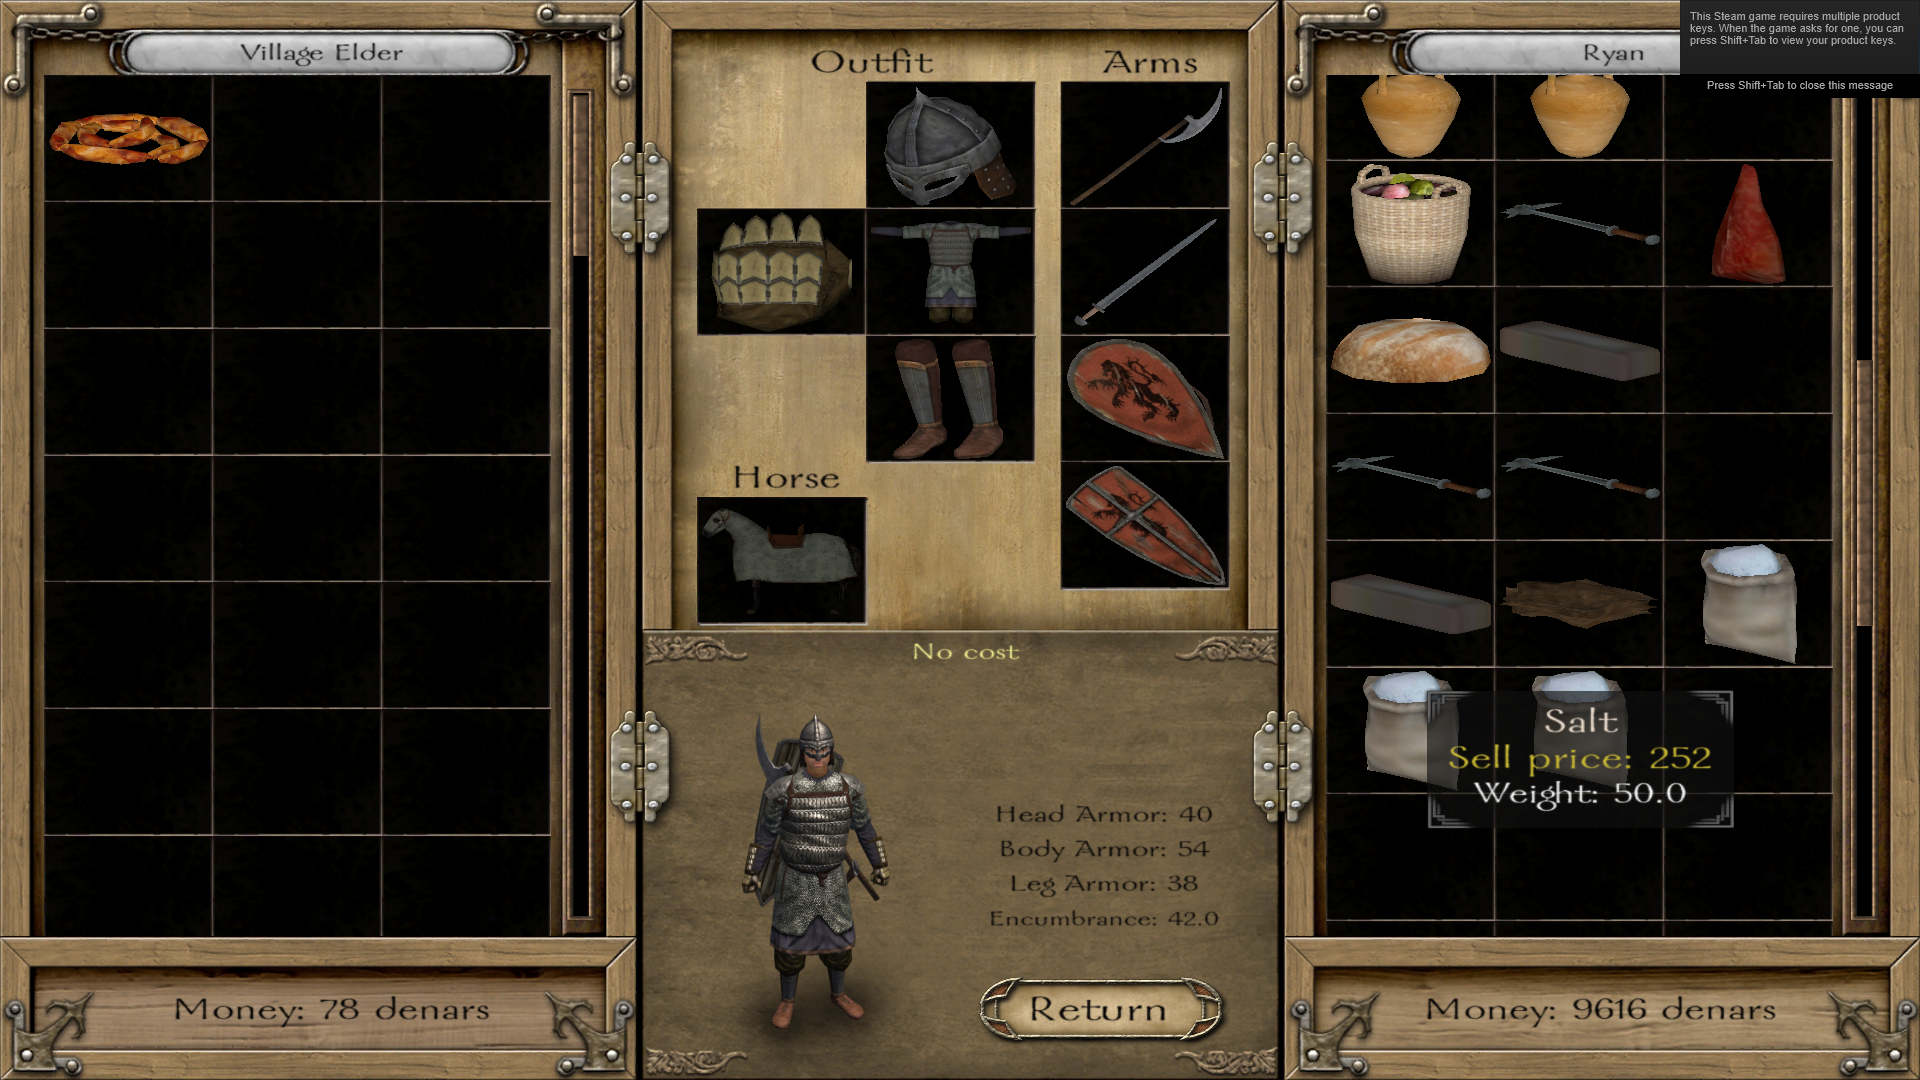
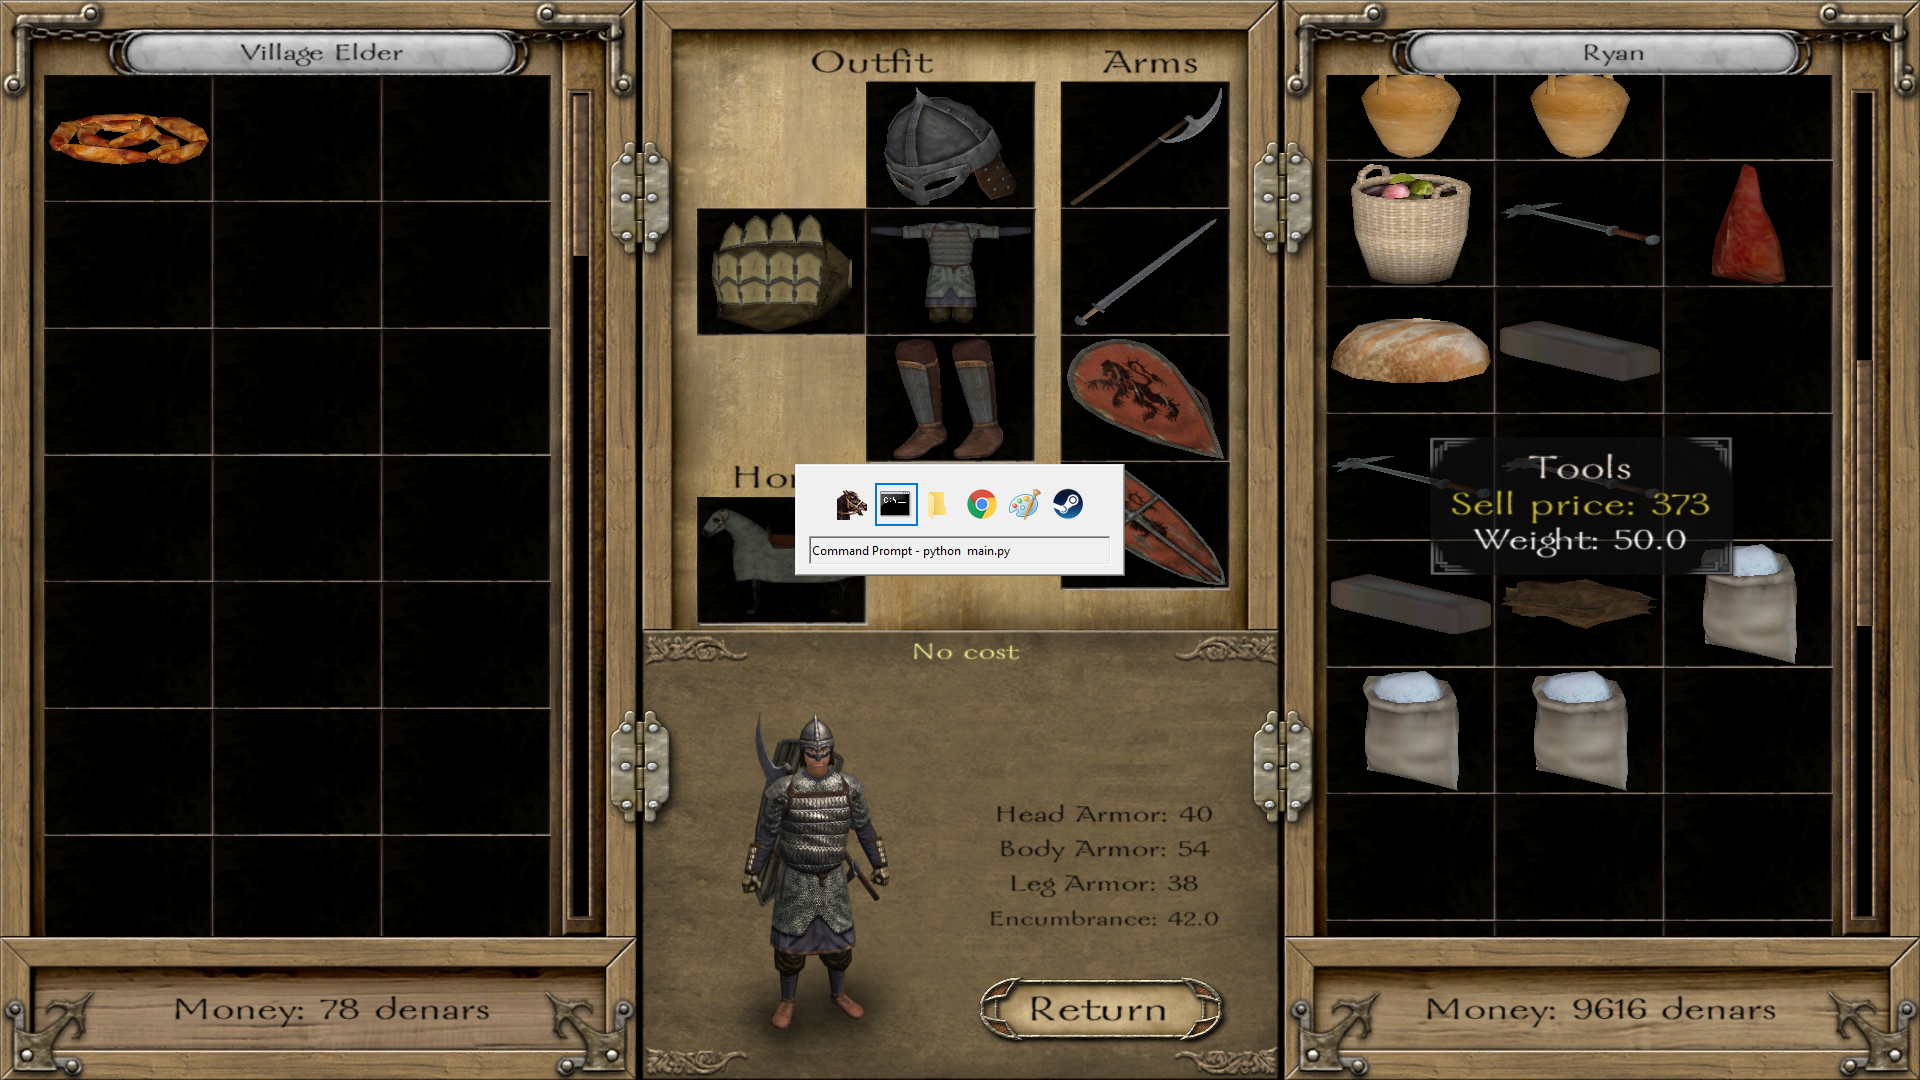
Started messing with kernels

diff --git a/test.py b/test.py
@@ -1,11 +1,32 @@
 import cv2
 import time
+import sys
 
 import numpy as np
 
 from pytesseract import image_to_string
 from PIL import Image
 from PIL import ImageGrab
+
+edge_detection_kernel = np.array([[-1, -1, -1], [-1, 8, -1], [-1, -1, -1]])
+sharpen_kernel = np.array([[0, -1, 0], [-1, 5, -1], [0, -1, 0]])
+
+img = cv2.imread("test.png")
+
+edge = cv2.filter2D(img, -1, edge_detection_kernel)
+sharpen = cv2.filter2D(img, -1, sharpen_kernel)
+edge_sharpen = cv2.filter2D(edge, -1, sharpen_kernel)
+sharpen_edge = cv2.filter2D(sharpen, -1, sharpen_kernel)
+
+cv2.imwrite("edge.png", edge)
+cv2.imwrite("sharpen.png", sharpen)
+cv2.imwrite("edge_sharpen.png", edge_sharpen)
+cv2.imwrite("sharpen_edge.png", sharpen_edge)
+sys.exit(0)
+
+print(image_to_string(Image.open("th1.png")))
+print('-------------------------------')
+print(image_to_string(Image.open("th2.png")))
 
 img = cv2.imread('./test.png', cv2.IMREAD_UNCHANGED)
 
@@ -21,9 +42,6 @@ maskPrice = cv2.inRange(img, lower_price_rgb, upper_price_rgb)
 cv2.imwrite("th1.png", maskName)
 cv2.imwrite("th2.png", maskPrice)
 
-print(image_to_string(Image.open("th1.png")))
-print('-------------------------------')
-print(image_to_string(Image.open("th2.png")))
 
 #blur = cv2.GaussianBlur(img, (5, 5), 0)
 

diff --git a/main.py b/main.py
@@ -70,11 +70,11 @@ def getGoodDictionaryCV():
     t = threading.Thread(target=inputThread)
     t.start()
 
-    lower_name_rgb = np.array([82, 90, 95], dtype="uint8")
-    upper_name_rgb = np.array([213, 226, 238], dtype="uint8")
+    lower_name_rgb = np.array([52, 55, 58], dtype="uint8")
+    upper_name_rgb = np.array([232, 239, 247], dtype="uint8")
 
-    lower_price_rgb = np.array([26, 78, 85], dtype="uint8")
-    upper_price_rgb = np.array([50, 181, 198], dtype="uint8")
+    lower_price_rgb = np.array([18, 62, 67], dtype="uint8")
+    upper_price_rgb = np.array([104, 205, 217], dtype="uint8")
 
     goodDict = {}
     while True:
